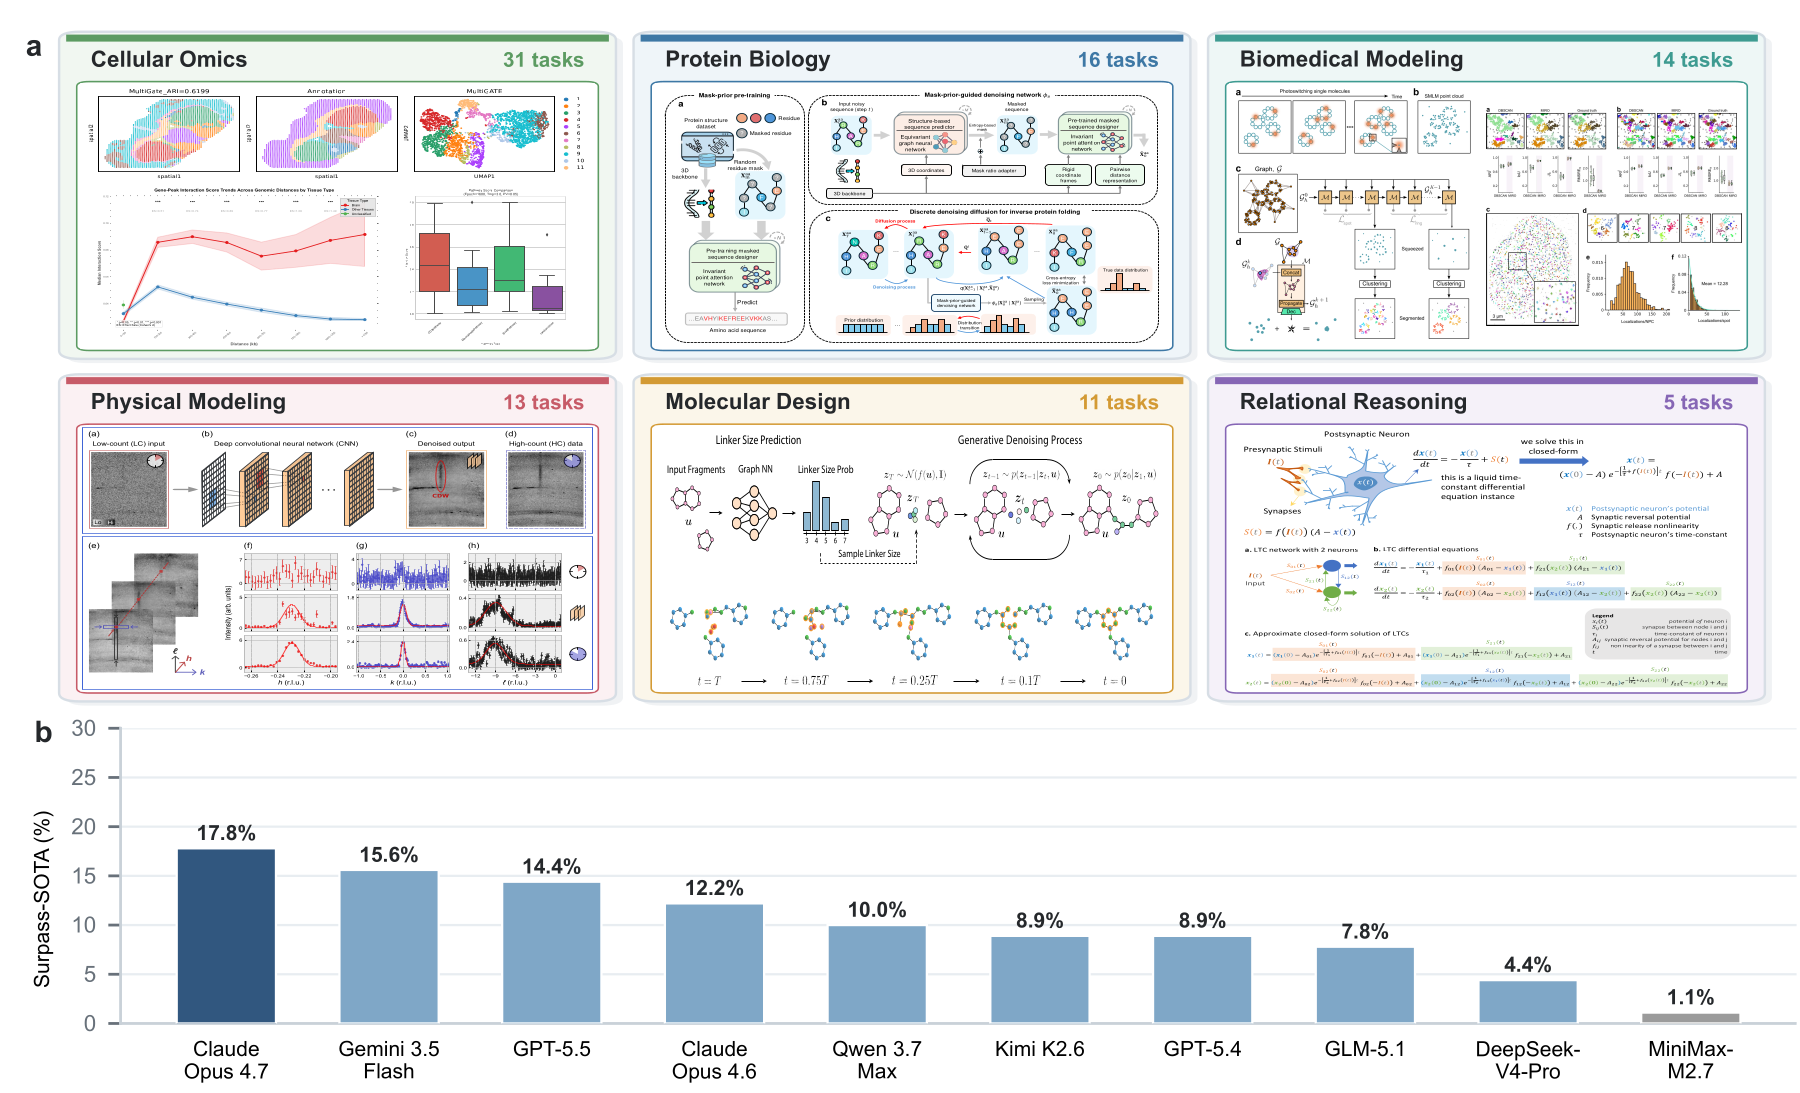
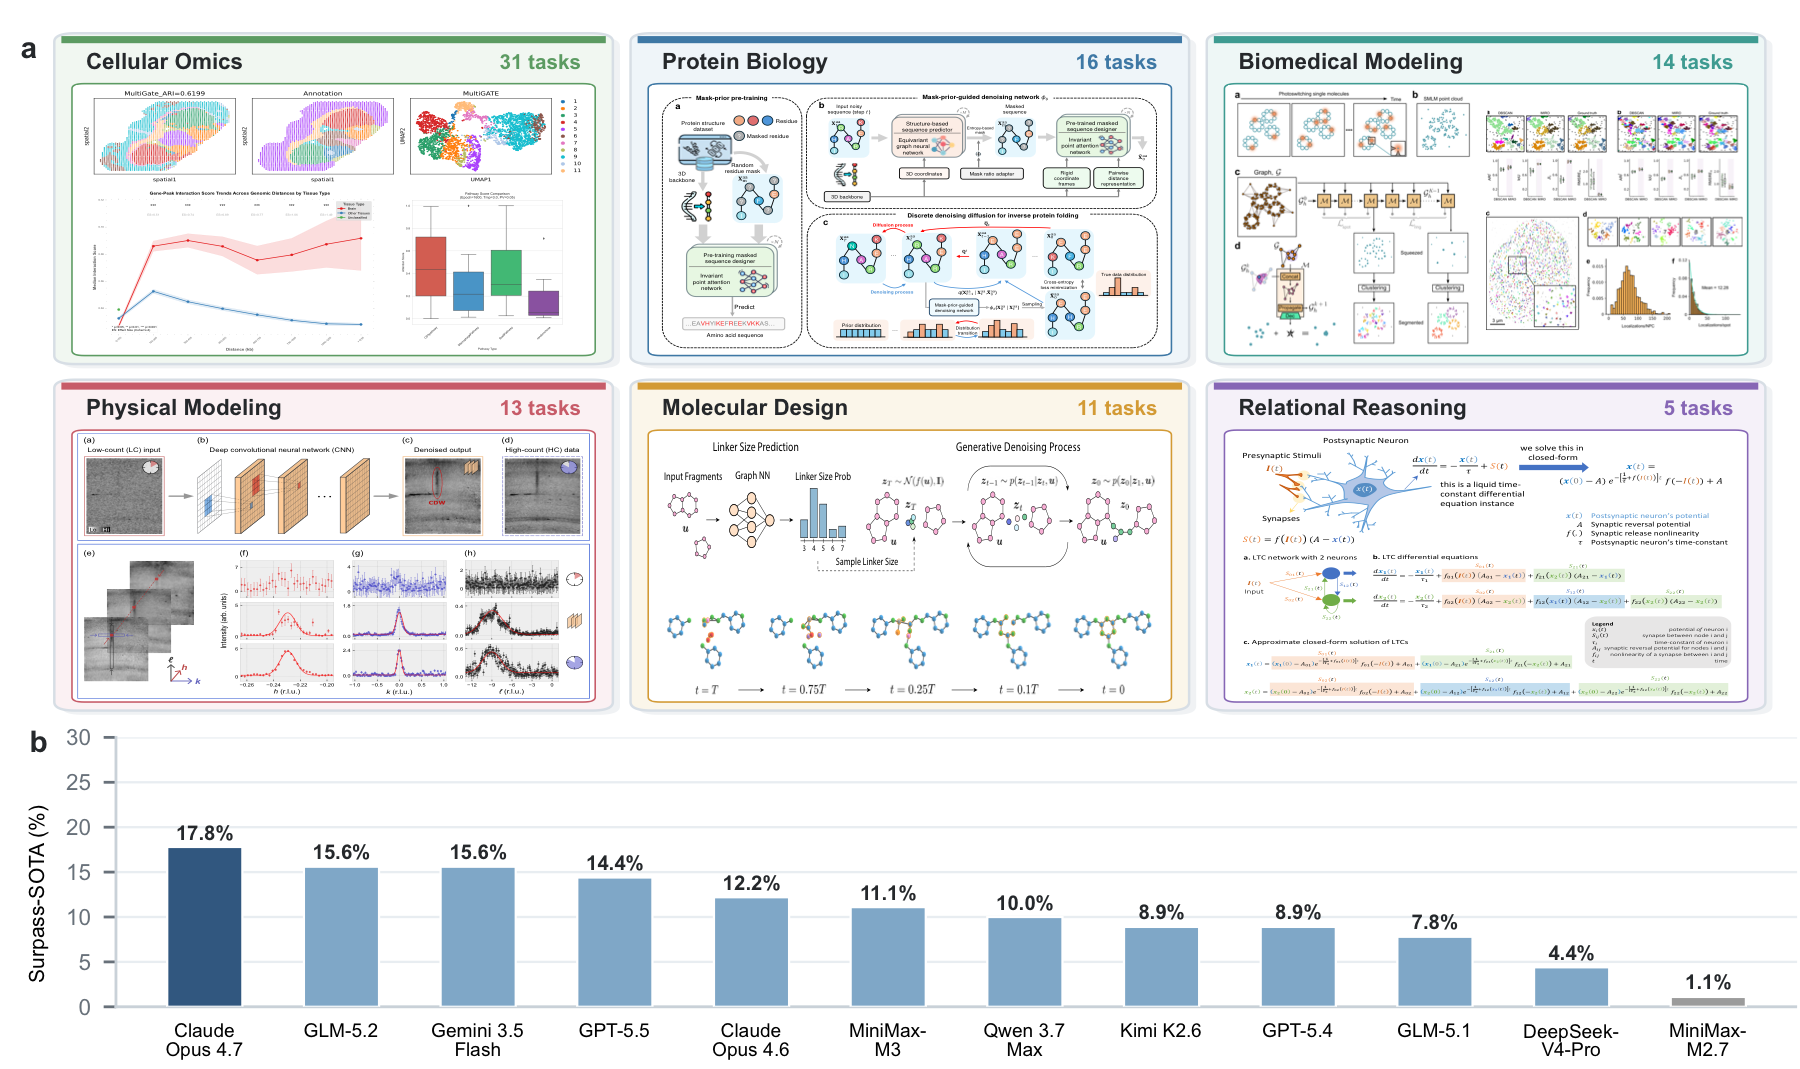
docs(results): update public results to twelve configurations
Regenerate assets/main_results.png from the 12-configuration results figure,
reword the Results summary around twelve harness-model configurations, and
add a News entry describing the public update path.

Changed region(s): [[0.0, 0.0309, 0.9956, 0.9878]]

diff --git a/README.md b/README.md
@@ -6,9 +6,13 @@
 
 [![arXiv](https://img.shields.io/badge/arXiv-b31b1b?style=for-the-badge&logo=arxiv&logoColor=ffffff)](https://arxiv.org/abs/2606.24530) &nbsp; [![Hugging Face Dataset](https://img.shields.io/badge/HUGGINGFACE-fcd022?style=for-the-badge&logo=huggingface&logoColor=000)](https://huggingface.co/datasets/FrontisAI/NatureBench) &nbsp; [![Leaderboard](https://img.shields.io/badge/Leaderboard-steelblue?style=for-the-badge&logo=googlechrome&logoColor=ffffff)](https://frontisai.github.io/NatureBench/)
 
-[📖 Overview](#overview) • [🔧 Installation](#installation) • [🚀 Quick Start](#quick-start) • [🌱 NatureGym](#naturegym) • [📚 Documentation](#documentation) • [⚖ License](#license) • [🎈 Citation](#citation)
+[📰 News](#news) • [📖 Overview](#overview) • [🔧 Installation](#installation) • [🚀 Quick Start](#quick-start) • [🌱 NatureGym](#naturegym) • [📚 Documentation](#documentation) • [⚖ License](#license) • [🎈 Citation](#citation)
 
 </div>
+
+## 📰News
+
+- [2026-07-07] We update the public artifacts for the twelve harness-model evaluation, adding GLM-5.2 and MiniMax-M3. The paper and README carry the main summary, Hugging Face hosts the task packages, and the GitHub Pages leaderboard tracks detailed harness-model results.
 
 ## 📖Overview
 
@@ -22,10 +26,10 @@ NatureBench is built on **NatureGym**, an automated pipeline that converts a pub
 
 ## 📊Results
 
-The strongest configuration reaches a 17.8% Surpass-SOTA rate, and success remains uneven across the six scientific domains NatureBench spans.
+Across twelve harness-model configurations, the strongest reaches a 17.8% Surpass-SOTA rate, and success remains uneven across the six scientific domains NatureBench spans.
 
 <p align="center">
-  <img src="assets/main_results.png" width="840" alt="NatureBench scientific domains and Surpass-SOTA rates across agent-model configurations">
+  <img src="assets/main_results.png" width="840" alt="NatureBench scientific domains and Surpass-SOTA rates across harness-model configurations">
 </p>
 
 ## 🔧Installation
